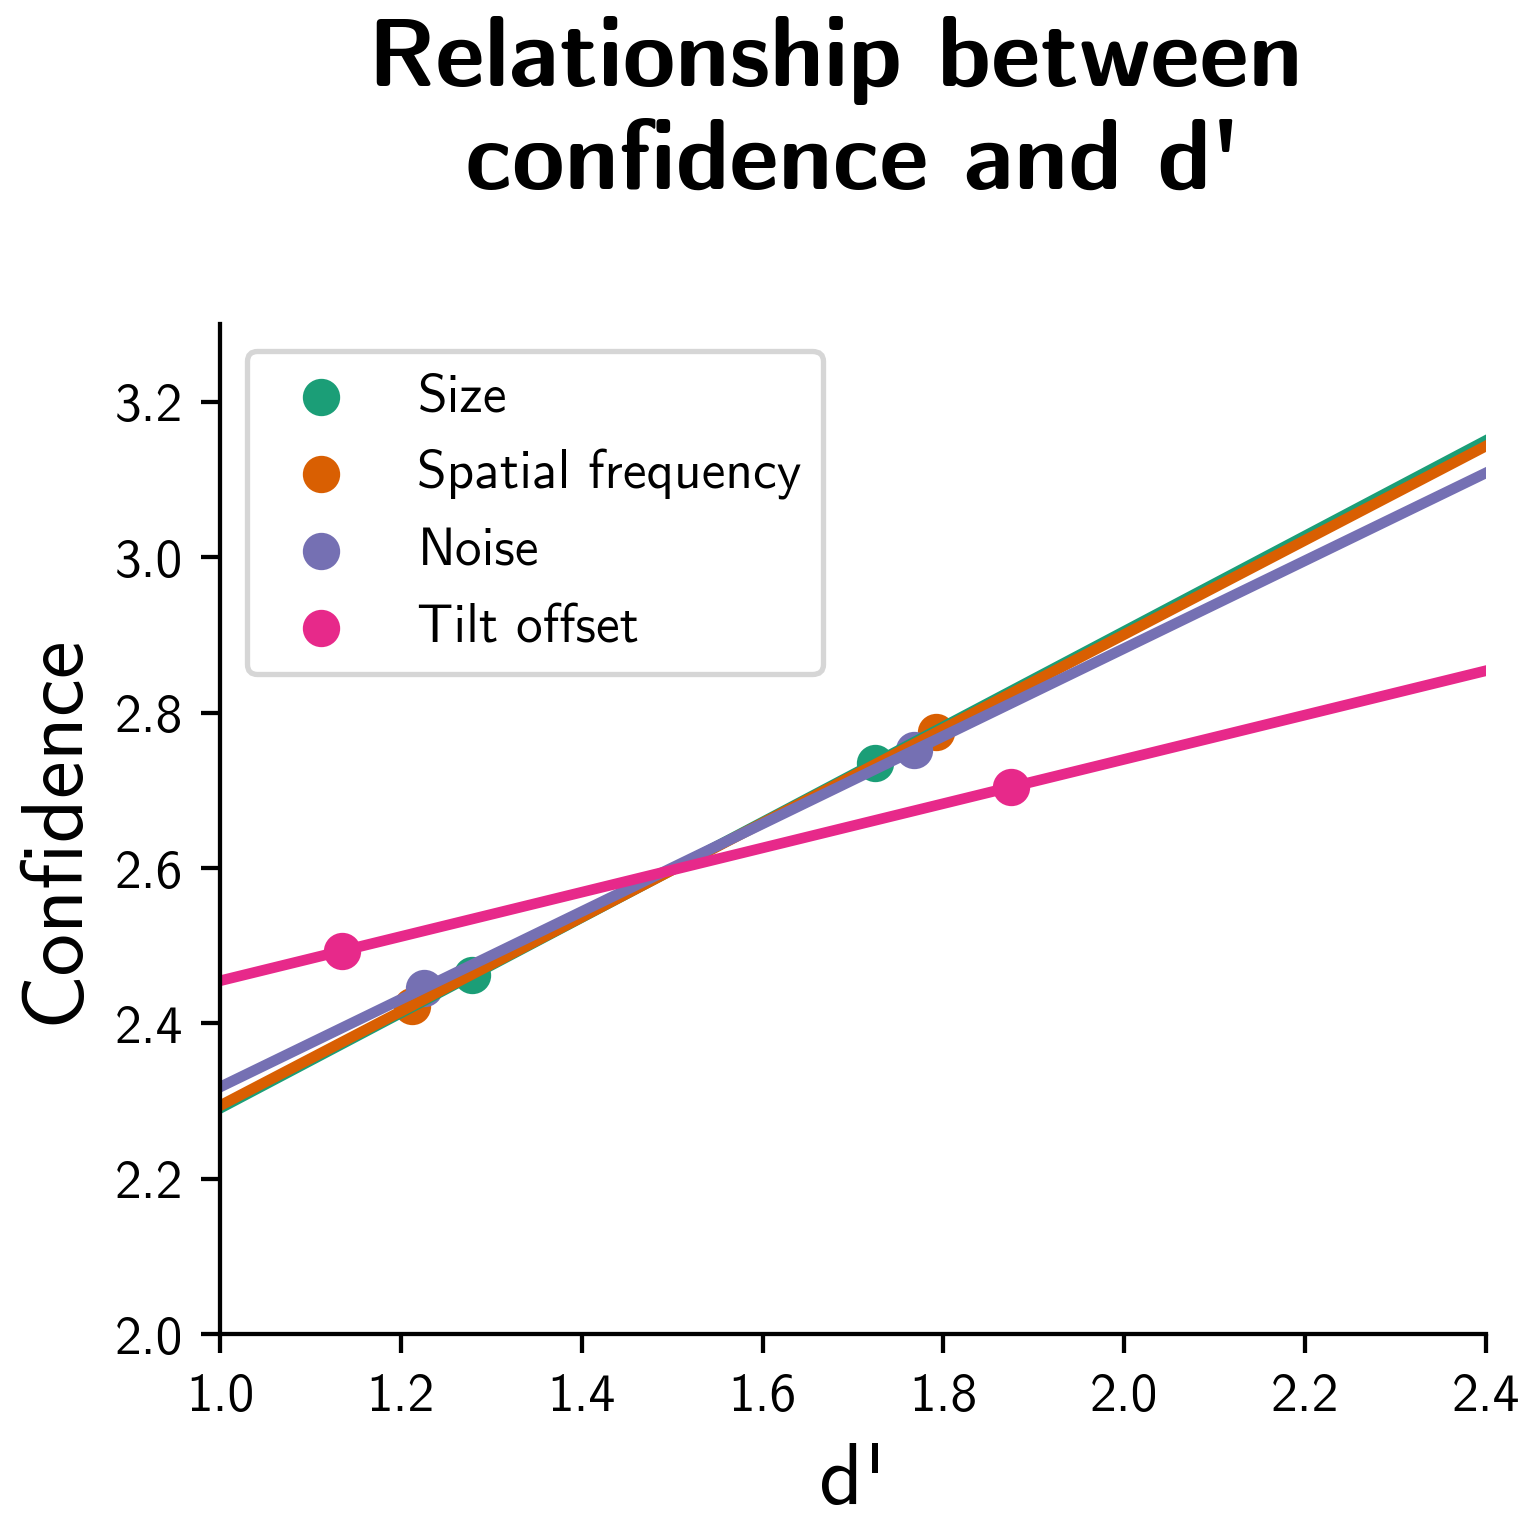
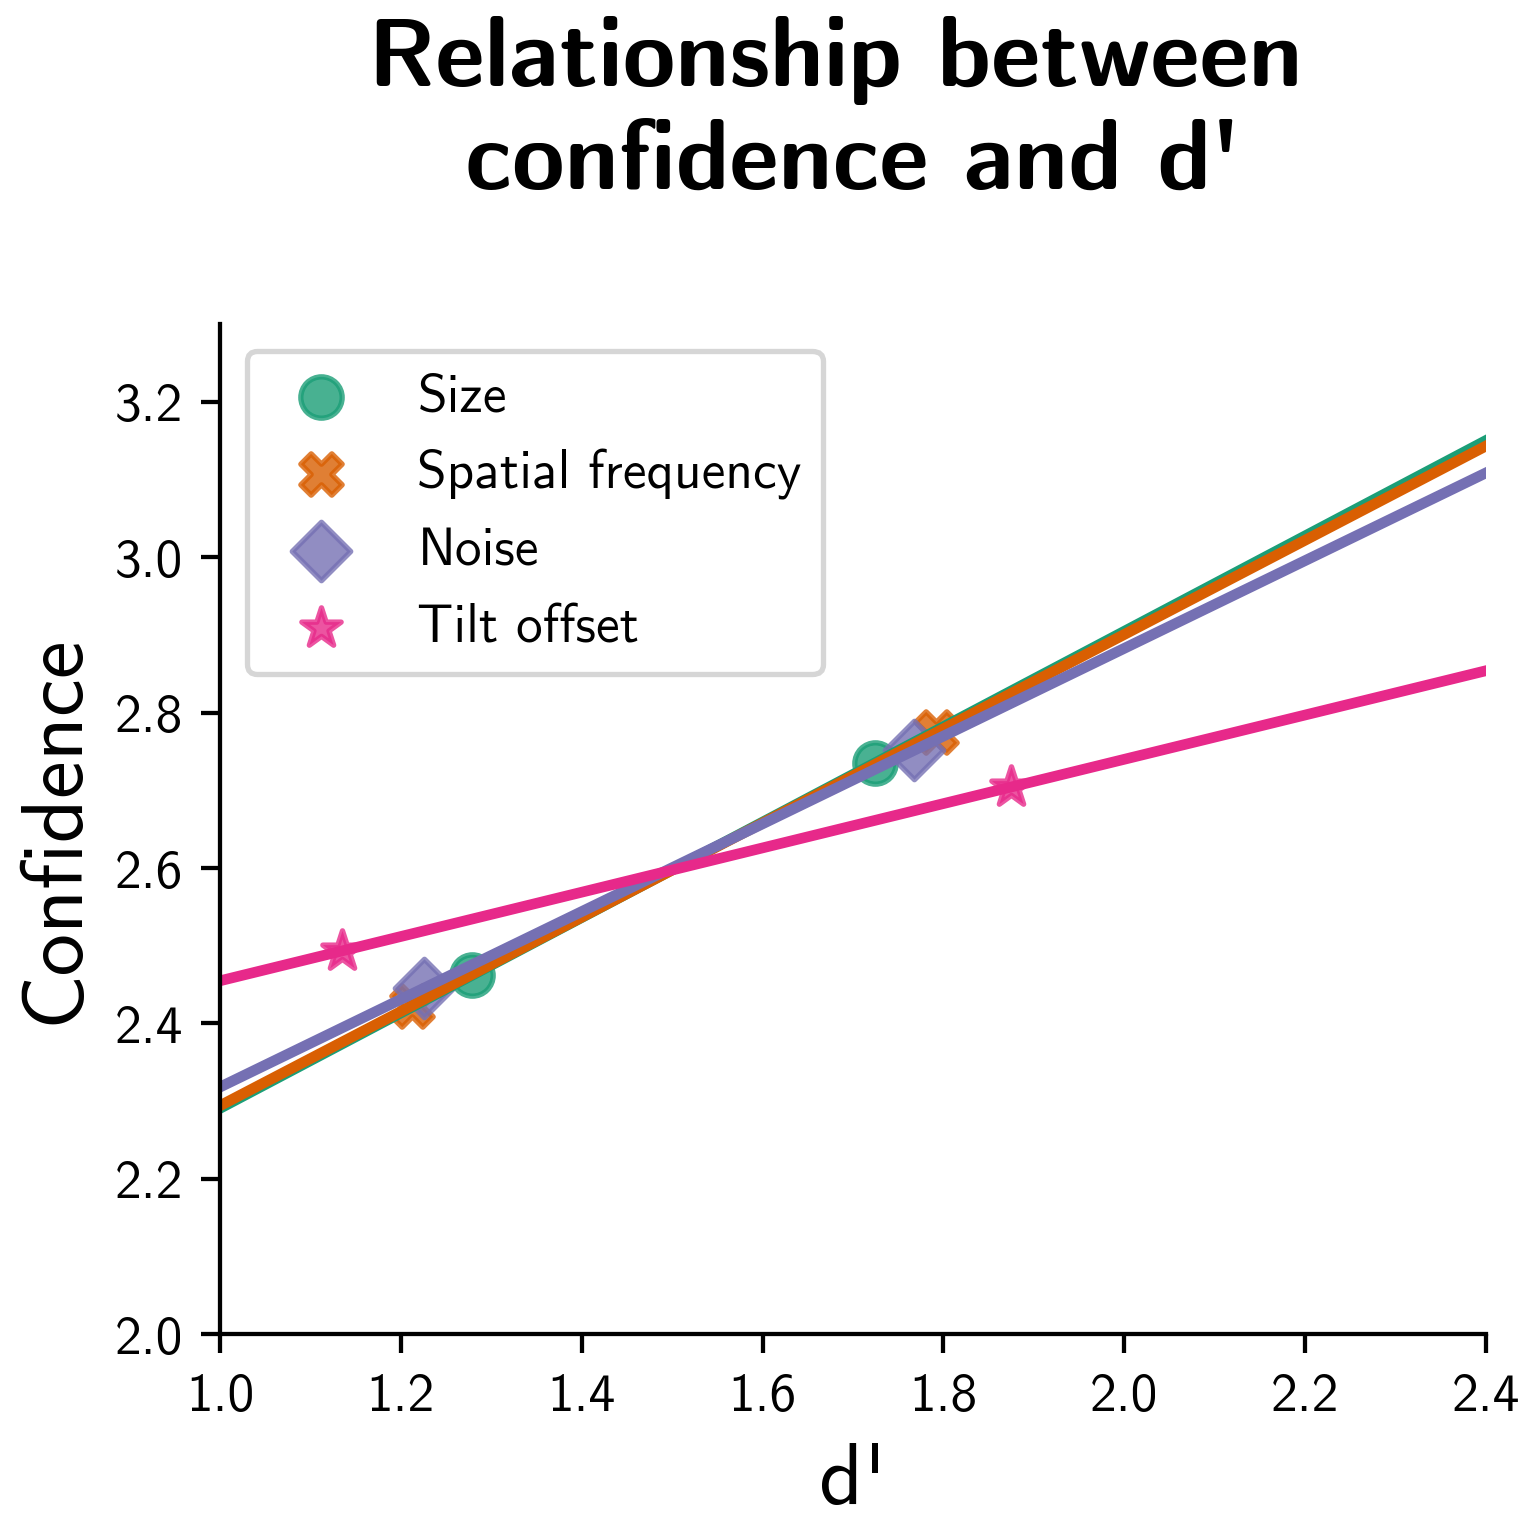
add z transform plot

diff --git a/data_code/analyze_expt_2.py b/data_code/analyze_expt_2.py
@@ -256,6 +256,132 @@ def plot_MC_diff(data, path):
     print(plot_name)
 
 
+def plot_MC_z_transformed_diff(data, path):
+    subjs = data.subj_no.unique()
+    measures = ['d-prime', 'conf']
+    plot_data = np.empty(shape = (2, 4, len(subjs)))
+
+    for m , measure in enumerate(measures):
+        for s, subj in enumerate(subjs):
+            subj_data = data[data.subj_no == subj]
+            for factor in range(4):
+                plot_data[m][factor][s] = \
+                np.average(subj_data[(subj_data.stim_cond == factor) & (subj_data.stim_level == 0)][measure]) - \
+                np.average(subj_data[(subj_data.stim_cond == factor) & (subj_data.stim_level == 1)][measure])
+
+    mean = np.mean(plot_data, axis = (1,2), keepdims=True)
+    std = np.std(plot_data, axis = (1,2), keepdims=True)
+    plot_data = (plot_data - mean) / std
+
+    label = ['Size', 'Spatial \nFrequency', 'Noise', 'Tilt \noffset']
+    paired_t_tests = []
+
+    # compute stats for within feature, across metrics
+    for i in range(4):
+        for m in range(2):
+            for j in range(m+1, 2):
+                t_stat, p_val = ttest_rel(plot_data[m,i], plot_data[j,i])
+                bayes10 = float(pg.ttest(plot_data[m,i], plot_data[j,i], paired=True)['BF10'].values[0])
+                bayes01 = 1 / bayes10
+                paired_t_tests.append((label[i], t_stat, p_val, bayes10, bayes01))
+
+#     # compute stats for cross feature on difference
+    plot_data = -np.diff(plot_data, axis=0)
+    plot_data = plot_data.squeeze()
+    cross_feat_t_tests = []
+    for i in range(4):
+        for j in range(i+1, 4):
+            t_stat, p_val = ttest_rel(plot_data[i], plot_data[j])
+            bayes10 = float(pg.ttest(plot_data[i], plot_data[j], paired=True)['BF10'].values[0])
+            bayes01 = 1 / bayes10
+            cross_feat_t_tests.append((label[i], label[j], t_stat, p_val, bayes10, bayes01))
+
+    # plot graph
+    plt.clf()
+    fig, ax = plt.subplots(1,1, layout="constrained", figsize=(6,4))
+    plate = plt.cm.get_cmap('Dark2', 8)
+    plate = [plate(0), plate(1), plate(2), plate(3)]
+    titles = ['d\' difference', 'Confidence difference']
+    x_pos = np.array([0,1,2,3])
+    buffer = [-0.25, 0.25]
+    alpha = [0.65, 0.35]
+    labels = ['d\'', 'Confidence']
+
+    avg = np.average(plot_data, axis = 1)
+    se = sem(plot_data, axis = 1)
+    ax.bar(x_pos, avg, yerr=se, color=plate, alpha = 0.5, width=0.75)
+    ax.set_xticks(x_pos, label, fontsize=14)
+    ax.spines['top'].set_visible(False)
+    ax.spines['right'].set_visible(False)
+
+    for sub in range(plot_data.shape[1]):
+        x_position = x_pos - 0.25
+        ax.scatter(x_position, plot_data[:, sub], color=plate, alpha=1,
+                      s=5
+                      )
+        # ax.plot(x_position, plot_data[m][sub], color='k', alpha = 0.1)
+
+    x_pos = [0.2,1.2,2.2,3.2]
+    y_pos = [-1.1, -1.1, -0.8, -0.5]
+    for i, test in enumerate(paired_t_tests):
+        print(test)
+        # Determine if p is over power 3
+        if test[2] < 1e-3:
+            power = int(np.floor(np.log10(test[2])))
+            coefficient = test[2] / (10 ** power)
+            annotation = r"$p = {:.2f} \times 10^{{{}}}$".format(coefficient, power)
+        else:
+            annotation = r"$p = {:.3f}$".format(test[2])
+
+        ax.annotate(annotation, xy=(x_pos[i], y_pos[i]),
+                      xytext=(0, 0), textcoords='offset points',
+                      ha='center', va='bottom', fontsize=6, color='black',
+                     )
+
+    print('--------------------------------------------------------------------------------')
+
+    y_pos_array = np.array([3, 4, 6, 3.5, 5.25, 4.5])
+    for i, test in enumerate(cross_feat_t_tests):
+        print(test)
+        x_pos = 0.5 * (label.index(test[0]) + label.index(test[1]))
+
+        # Determine if p is over power 3
+        if test[3] < 1e-3:
+            power = int(np.floor(np.log10(test[3])))
+            coefficient = test[3] / (10 ** power)
+            annotation = r"$p = {:.2f} \times 10^{{{}}}$".format(coefficient, power)
+            alpha = 1
+        else:
+            annotation = r"$p = {:.2f}$".format(test[3])
+            alpha = 0.5
+
+        ax.annotate(annotation, xy=(x_pos, y_pos_array[i]),
+                      xytext=(0, 0), textcoords='offset points',
+                      ha='center', va='bottom', fontsize=8, color='black',
+                    alpha = alpha
+                     )
+        ax.plot([label.index(test[0]), label.index(test[1])], [y_pos_array[i], y_pos_array[i]],
+                 color='k', alpha = alpha
+                   )
+
+    # plot a horizontal line at 0, y = 0
+    ax.plot([-1.25, 5.5], [0, 0], 'k', alpha=1)
+    # upper arrow on the line
+    ax.arrow(3.75, 0, 0, 0.7, head_width=0.1, head_length=0.25, width=0.025,fc='k', ec='k')
+    ax.arrow(3.75, 0, 0, -0.7, head_width=0.1, head_length=0.25, width=0.025,fc='k', ec='k')
+    ax.annotate('Larger effect on \naccuracy than confidence', xy=(3.85, 0.25), xytext=(0, 0), textcoords='offset points',
+                fontsize=8, color='black', fontweight='bold')
+    ax.annotate('Larger effect on \nconfidence than accuracy', xy=(3.85, -0.95), xytext=(0, 0), textcoords='offset points',
+                fontsize=8, color='black', fontweight='bold')
+    ax.set_xlim(-0.75, 5.5)
+
+    ax.set_ylabel(r"z($\Delta$d') - z($\Delta$confidence)", fontsize=14)
+    plt.suptitle('z-scored difference analysis\n', fontsize=18, fontweight='bold')
+    plot_name = path / 'z_difference.png'
+    fig.savefig(plot_name, format='png', dpi=384, transparent=True)
+    print(plot_name)
+
+
 def plot_MC_folded_X(data, path):
     plt.clf()
     fig, ax = plt.subplots(2,2, figsize=(5,5), layout='constrained')
@@ -352,6 +478,7 @@ def plot_MC_acc_conf_scatter(data, path):
 
     plt.clf()
     label = ['Size', 'Spatial frequency', 'Noise', 'Tilt offset']
+    markers = ['o', 'X', 'D', '*']
     plate = plt.cm.get_cmap('Dark2', 8)
     fig = plt.figure(layout='constrained', figsize=(4, 4))
 
@@ -367,7 +494,7 @@ def plot_MC_acc_conf_scatter(data, path):
                      (data.stim_level == level)]['conf']))
 
         m, c = fit_to_line(x_axis, y_axis)
-        plt.scatter(x_axis, y_axis, alpha = 1, label=label[i], color=plate(i), marker='o')
+        plt.scatter(x_axis, y_axis, label=label[i], color=plate(i), marker=markers[i], s=60, alpha=0.8)
         plt.plot(np.linspace(0,3,100), [m*x+c for x in np.linspace(0,3,100)], color=plate(i), alpha=1, lw=2)
         plt.xlim(1,2.4)
         plt.ylim(2,3.3)
@@ -629,6 +756,8 @@ def graphMC(data, path):
 
     # Figure 3c
     plot_MC_diff(data, path)
+
+    plot_MC_z_transformed_diff(data, path)
 
     # Figure 5
     plot_MC_folded_X(data, path)

diff --git a/data_code/analyze_expt_1.py b/data_code/analyze_expt_1.py
@@ -448,9 +448,7 @@ def plot_foldedX(data, path):
         axim[i].set_title(split_plot_name[i], weight='bold', fontsize=14)
         axim[i].set_xticks([1,2,3], ['Hard', 'Medium', 'Easy'], fontsize=12)
         axim[i].set_xlim([0.5, 3.5])
-        # axim[i].set_ylim([1.5,3.2])
         axim[i].set_ylabel('Confidence', fontsize=14)
-        # axim[i].set_yticks([1,2,3,4], [1,2,3,4])
         axim[i].spines['top'].set_visible(False)
         axim[i].spines['right'].set_visible(False)
 
@@ -471,9 +469,6 @@ def plot_foldedX(data, path):
 
     y_annotate_pos = [[2.6, 2.65, 2.6, 2.65], [2.1, 2.25, 2.05, 2.5]]
     color=['green', 'red']
-    # print(m_array.mean(axis = 2))
-    # print(t_value_array)
-    # print(p_value_array)
     for feat in range(4):
         for correct in range(2):
             t_value = t_value_array[correct][feat]
